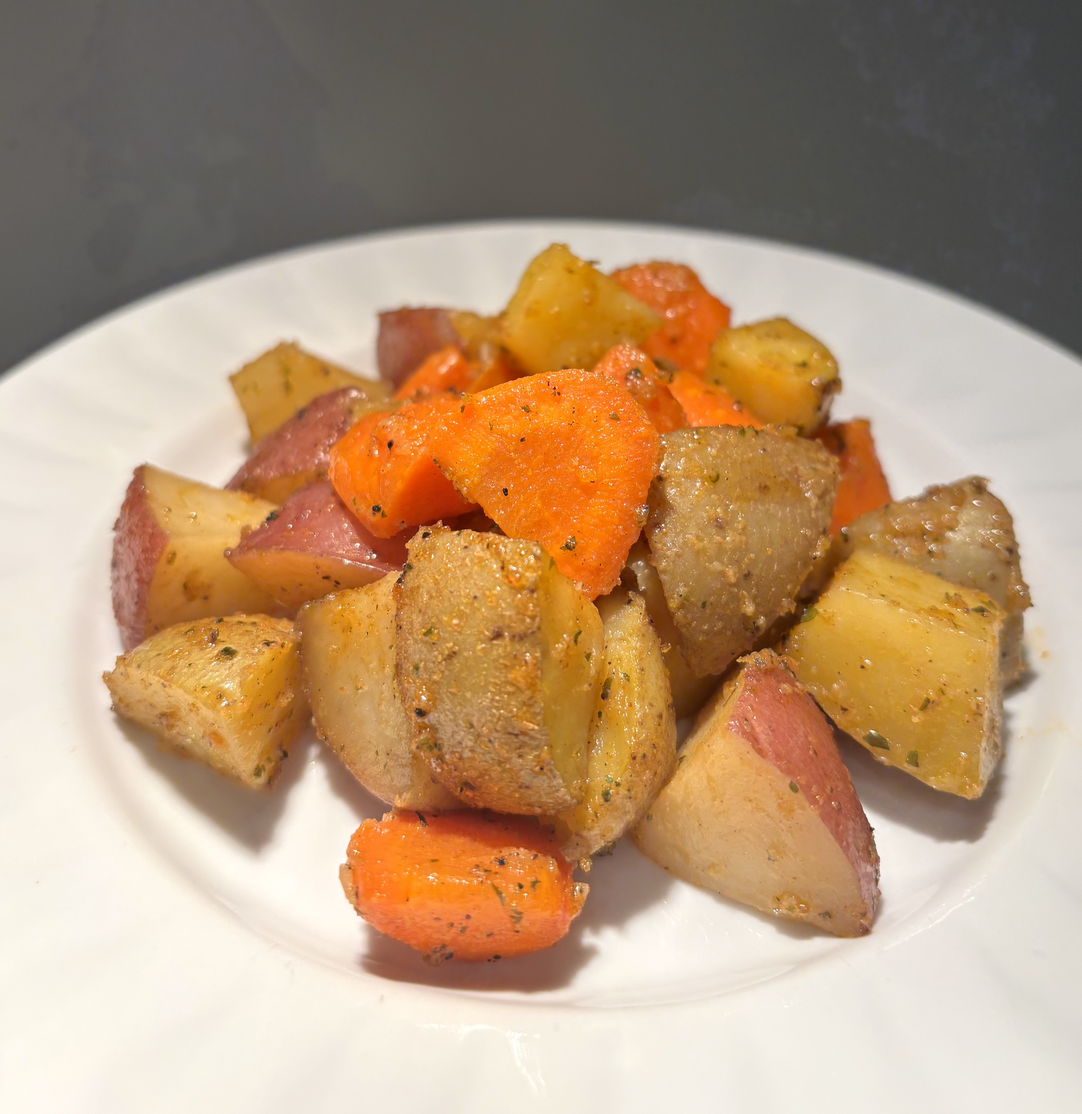
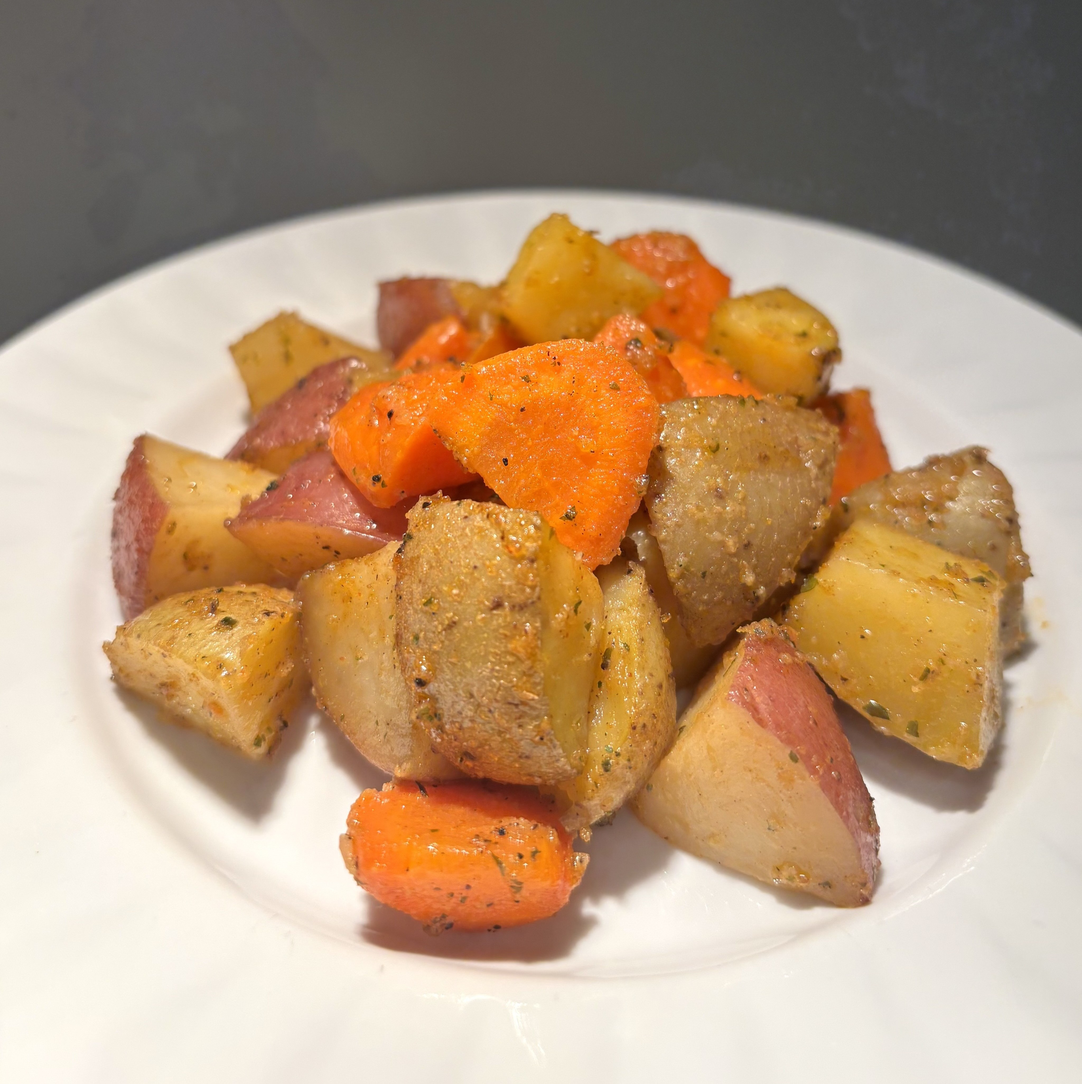
updated menu data

Changed region(s): [[0.0, 0.1561, 1.0, 0.9054], [0.7812, 0.562, 0.8125, 0.5932]]

diff --git a/src/app/shared/MENU.js b/src/app/shared/MENU.js
@@ -5,6 +5,11 @@ import zitiImg from '../assets/image/ziti.jpg';
 import spaghettiImg from '../assets/image/spaghetti-meatball.jpg';
 import meatballImg from '../assets/image/meatball.jpg';
 import muffinImg from '../assets/image/muffin.jpg';
+import potatoImg from '../assets/image/baked-potatoes.jpg';
+import broccoliImg from '../assets/image/broccoli.jpg';
+import cookieImg from '../assets/image/cookies.jpg';
+import greenBeansImg from '../assets/image/green-beans.jpg';
+import healthyLoverImg from '../assets/image/healthy-lover.jpg';
 
 export const MENU = [
     {
@@ -28,6 +33,15 @@ export const MENU = [
     {
         id: 2,
         category: 'Rice',
+        name: "Healthy Lover",
+        image: healthyLoverImg,
+        description:
+            'Fried rice with ground turkey, spinach, sweet corn, and egg',
+        price: 13.99
+    },
+    {
+        id: 3,
+        category: 'Rice',
         name: 'Build Your Own Bowl',
         image: buildYourOwnImg,
         description:
@@ -35,7 +49,7 @@ export const MENU = [
         price: 11.99
     },
     {
-        id: 3,
+        id: 4,
         category: 'Pasta',
         name: 'Baked Ziti',
         image: zitiImg,
@@ -44,7 +58,7 @@ export const MENU = [
         price: 14.99
     },
     {
-        id: 4,
+        id: 5,
         category: 'Pasta',
         name: 'Spaghetti and Meatballs',
         image: spaghettiImg,
@@ -53,7 +67,7 @@ export const MENU = [
         price: 15.99
     },
     {
-        id: 5,
+        id: 6,
         category: 'Pasta',
         name: 'Meatballs',
         image: meatballImg,
@@ -62,12 +76,48 @@ export const MENU = [
         price: 11.99
     },
     {
-        id: 6,
+        id: 7,
+        category: 'Sides',
+        name: "Green Bean Casserole",
+        image: greenBeansImg,
+        description:
+            'Green bean casserole with crunchy fried onion and cheese',
+        price: 5.99
+    },
+    {
+        id: 8,
+        category: 'Sides',
+        name: "Baked Potatoes and Carrots",
+        image: potatoImg,
+        description:
+            'Baked potatoes and carrots',
+        price: 5.99
+    },
+    {
+        id: 9,
+        category: 'Sides',
+        name: "Steamed Broccoli",
+        image: broccoliImg,
+        description:
+            'Steamed broccoli with sesame oil and low sodium soy sauce',
+        price: 4.99
+    },
+    {
+        id: 10,
         category: 'Sweet',
         name: 'Muffins',
         image: muffinImg,
         description:
             'Banana muffin with blueberries or chocolate chips',
         price: 2.50
+    },
+    {
+        id: 11,
+        category: 'Sweet',
+        name: 'Cookies',
+        image: cookieImg,
+        description:
+            'Chocolate chip cookies',
+        price: 1.50
     }
 ];

diff --git a/src/features/menu/MenuList.js b/src/features/menu/MenuList.js
@@ -1,12 +1,13 @@
 import { Container, Col, Row } from 'reactstrap';
 import { useSelector } from 'react-redux';
 import MenuCard from './MenuCard';
-import { selectRiceMenu, selectPastaMenu, selectSweetMenu } from './menuSlice';
+import { selectRiceMenu, selectPastaMenu, selectSweetMenu, selectSidesMenu } from './menuSlice';
 
 const MenuList = () => {
     const riceMenu = useSelector(selectRiceMenu);
     const pastaMenu = useSelector(selectPastaMenu);
     const sweetMenu = useSelector(selectSweetMenu);
+    const sidesMenu = useSelector(selectSidesMenu);
     return (
         <Container className='divMenu'>
             <h3 className='mt-5'>Fried Rice</h3>
@@ -30,6 +31,19 @@ const MenuList = () => {
                         return (
                             <Col md='4' key={pasta.id}>
                                 <MenuCard menu={pasta} />
+                            </Col>
+                        );
+                    })
+                }
+            </Row>
+            <h3 className='mt-5'>Sides</h3>
+            <hr />
+            <Row className='ms-auto'>
+                {
+                    sidesMenu.map(sides => {
+                        return (
+                            <Col md='4' key={sides.id}>
+                                <MenuCard menu={sides} />
                             </Col>
                         );
                     })

diff --git a/src/features/menu/menuSlice.js b/src/features/menu/menuSlice.js
@@ -29,4 +29,8 @@ export const selectSweetMenu = (state) => {
     return state.menu.menuItems.filter((menu) => menu.category === 'Sweet');
 };
 
+export const selectSidesMenu = (state) => {
+    return state.menu.menuItems.filter((menu) => menu.category === 'Sides');
+}
+
 export default menuSlice.reducer;
